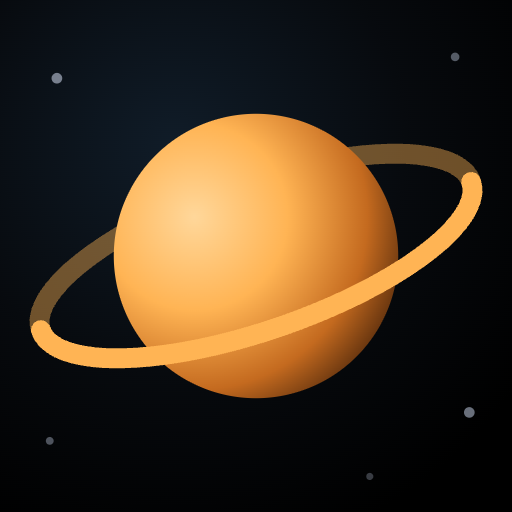
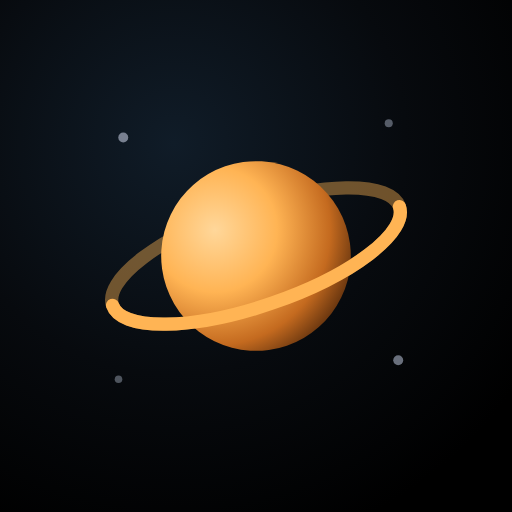
Add the App Store listing pack
APP-STORE.md is the Connect answer sheet, beside PLAY-LISTING.md: name,
subtitle, keywords, description, App Privacy (Data Not Collected), the 4+
questionnaire, export compliance, and the review notes to answer Guideline 4.2
with. DECIDE markers where the call is the owner's — Kids Category, which should
stay in step with Play's target-audience answer.

Screenshots are shot from the real WKWebView on the 6.9" iPhone and 13" iPad
simulators: 1320x2868 and 2064x2752, six each, the same six ideas as the Play
set. None of Play's sizes transfer.

The iPad set is portrait deliberately. Apple takes either orientation, but
landscape cannot be forced from a script the way it can on iPhone: an iPad app
that supports Split View must support all four orientations, so a landscape-only
UISupportedInterfaceOrientations is ignored, and the simulator letterboxes the
interface into the portrait framebuffer rather than rotating it.

Nothing here is blocked on code. It is blocked on the organisation enrolment.

diff --git a/mobile/store/APP-STORE.md b/mobile/store/APP-STORE.md
@@ -1,0 +1,281 @@
+# App Store — everything App Store Connect will ask for
+
+Answer sheet for `au.com.lionforce.planetexplorer`, version 1.0.0 (build 1).
+Copy is final unless marked **DECIDE** or **FILL IN**. Assets in this folder are
+ready to upload. The Play answers live beside this in `PLAY-LISTING.md`; where the
+two stores ask the same question the answer is the same, but almost none of the
+*fields* are the same shape, so this is a separate sheet rather than a diff.
+
+**Blocked on one thing only:** the Apple Developer Program organisation enrolment.
+Everything below can be filled in the moment the account opens.
+
+---
+
+## Assets in this folder
+
+| File | Connect field | Spec | Status |
+|---|---|---|---|
+| `screenshots-iphone/*.png` | iPhone 6.9" screenshots | 1320×2868, 6 of them | ✅ |
+| `screenshots-ipad/*.png` | iPad 13" screenshots | 2064×2752, 6 of them | ✅ |
+| — | App icon | **not uploaded separately** — Connect takes the 1024px icon out of the build's asset catalogue | ✅ in build |
+
+Apple's sizes do not overlap Play's at all, so these are shot separately, from the
+real WKWebView on the iPhone 17 Pro Max and iPad Pro 13-inch simulators. The six
+compositions are the same six ideas as the Play set: named landmarks on Earth,
+Valles Marineris in relief, Jupiter's bands, Saturn under the science layers, Io,
+and the sense-of-scale panel.
+
+**The iPad set is portrait on purpose.** Apple accepts either orientation, and
+landscape cannot be forced from the command line: an iPad app that supports Split
+View is required to support all four orientations, so a landscape-only
+`UISupportedInterfaceOrientations` is ignored, and the simulator letterboxes the
+interface into the portrait framebuffer instead of rotating it. Re-shoot in
+landscape on a real iPad if you prefer it — `xcrun simctl io <udid> screenshot`
+is the same one-liner on a device.
+
+One screenshot set covers every localisation; there is only English.
+
+---
+
+## App information
+
+| Field | Value |
+|---|---|
+| Name (30 max) | `Planet Explorer` |
+| Subtitle (30 max) | `Fly 24 real worlds, offline` (27) |
+| Bundle ID | `au.com.lionforce.planetexplorer` |
+| SKU | `PLANETEXPLORER1` |
+| Primary category | Education |
+| Secondary category | Games → Simulation |
+| Age rating | **4+** (see below) |
+| Price | **Free**, no in-app purchases |
+| Copyright | `2026 Lion Force Pty Ltd` |
+| Support URL | `https://www.lionforce.com.au` |
+| Marketing URL | `https://www.lionforce.com.au` |
+| Privacy Policy URL | `https://www.lionforce.com.au/privacy/planet-explorer` |
+
+Primary category is Education rather than Games deliberately: it is the same
+argument the review notes make, and it is where a parent looking for this would
+search. Play has it under Games → Educational because Play's Education category
+excludes games outright.
+
+**Keywords** (100 max, comma-separated, no spaces after commas — 99 used)
+
+```
+solar system,planets,space,astronomy,science,stars,mars,saturn,jupiter,moons,orbit,kids,learning
+```
+
+Do not repeat the app name or the category in keywords; Apple already indexes
+both.
+
+**Promotional text** (170 max, editable without a new build)
+
+```
+Twenty-four worlds, generated on your device as you arrive. No ads, no accounts,
+no network — it works on a plane. Twelve survey missions written for a young
+reader.
+```
+
+**Description** (4000 max)
+
+```
+Take a survey craft anywhere in the solar system. Twenty-four worlds — the Sun,
+all eight planets, five dwarf planets and ten famous moons — and not one of them
+is a photograph. Every surface is generated on your device as you arrive:
+Jupiter's counter-flowing cloud bands with the Great Red Spot drifting between
+them, Saturn's stripes under real ring gaps, Io's volcanoes, Europa's cracked
+ice, Haumea tumbling end over end.
+
+TWELVE SURVEY MISSIONS
+Each mission is a clue rather than a waypoint. "Find the moon that orbits its
+planet backwards." Work out which world it means, fly there, descend close and
+hold position to survey it. Every debrief is a real fact, and your badges are
+saved.
+
+REAL RELIEF, REAL PLACES
+Solid worlds carry a height map, so craters have raised rims and Valles Marineris
+is genuinely a gash four thousand kilometres long — visible on the planet's
+silhouette and sharpest along the terminator. Turn on landmarks and the real
+places name themselves at their real coordinates: Olympus Mons, Tycho, the Sea of
+Tranquility where Apollo 11 landed, Caloris, Sputnik Planitia, the Cassini
+Division. Worlds we have only ever seen as cloud, like Venus, honestly have
+nothing to show.
+
+THE VIEW FROM A MOON
+Select a moon and its planet hangs in its sky — Saturn looming over Enceladus,
+Jupiter's bands churning above Io, Earth floating over the Moon with its clouds
+still moving. The sky moves too: the planet circles at the moon's real orbital
+direction and waxes through phases. Every moon is tidally locked, so the host
+stays over the same face, and Pluto and Charon each keep one face toward the
+other, as they really do.
+
+TIME WARP
+One second of flight is six minutes of local day on every world. Speed that up
+to sixty times and the physics becomes something you can watch: the terminator
+sweeping across the ground, Haumea turning end over end every four hours while
+Venus barely creeps.
+
+SCIENCE LAYERS
+One tap draws the schematic — spin axis with the poles marked and the real axial
+tilt, the equator, the direction of rotation, the sub-solar point and the
+terminator. Uranus lying on its side at 98°, Venus upside down at 177° so its
+spin runs backwards, Triton turning against its own orbit: things to see rather
+than take on trust.
+
+A SENSE OF SCALE
+The target and Earth drawn at one scale, which is the point — next to the Sun,
+Earth is a dot you have to hunt for. Then the whole solar system shrinks until
+the Sun is a 30 cm beach ball, Earth a peppercorn 32 metres away, Neptune a
+marble most of a kilometre off. Distances are measured in things that take time:
+how long sunlight takes to arrive, how long a radio call would take, how many
+years an airliner would need.
+
+YOU, HERE
+Enter your weight and age and every world tells you what you would weigh there
+and how high you could jump — 35 metres on Enceladus — from real surface gravity.
+
+BUILT TO BE HARMLESS
+No advertising. No in-app purchases. No accounts. No analytics. No network
+requests of any kind, so it works in a tunnel or on a plane. Nothing is
+collected, and nothing can be: the app has no networking code in it at all.
+
+Every number, every clue and every debrief is real science, written to be read by
+someone young.
+```
+
+**What's New in This Version** (for 1.0.0)
+
+```
+First release. Twenty-four worlds, twelve survey missions, real relief and named
+landmarks — all generated on your device. No ads, no purchases, no network.
+```
+
+---
+
+## App Privacy
+
+Answer **Data Not Collected** and the section is finished — no data types, no
+tracking, no third-party SDKs. This is by construction: the app makes no network
+request, and on Android the same binary ships without even the INTERNET
+permission, which is the same claim in a form a reviewer can verify.
+
+| Question | Answer |
+|---|---|
+| Do you or your third-party partners collect data from this app? | **No** |
+| Does the app use the Advertising Identifier (IDFA)? | **No** |
+| Does the app track users across apps or websites? | **No** — no `NSUserTrackingUsageDescription`, no ATT prompt |
+
+There is no privacy manifest (`PrivacyInfo.xcprivacy`) in the build and none is
+required: the app uses no [required-reason API](https://developer.apple.com/documentation/bundleresources/privacy_manifest_files)
+and contains no third-party SDK.
+
+**On-device storage, if the reviewer asks:** three values in the WebView's local
+storage, mirrored into `UserDefaults` so a storage-pressure eviction does not wipe
+a child's progress — which worlds have been surveyed, an optional weight and age
+typed into the pilot row, and whether one panel is folded. Never transmitted;
+nothing to transmit them with.
+
+---
+
+## Age rating questionnaire
+
+Every content question is **None / No**. Expected result: **4+**.
+
+| Question | Answer |
+|---|---|
+| Cartoon or fantasy violence · realistic violence · sexual content · nudity | None |
+| Profanity or crude humour · alcohol, tobacco, drugs · horror themes | None |
+| Simulated gambling · contests | None |
+| Unrestricted web access | **No** — there is no browser, no link out, no remote content |
+| Medical or treatment information | No |
+| Made for Kids | **DECIDE**, see below |
+
+### Kids Category — **DECIDE**
+
+The app qualifies cleanly: no ads, no purchases, no accounts, no analytics, no
+external links, no user-generated content, no network at all. Two ways to go:
+
+- **Enter the Kids Category** (ages 5–8 or 9–11). It is a marketing asset and the
+  right shelf for the audience the copy is written for. Costs: Guideline 1.3 and
+  the Kids rules apply in review, a parental gate is required for anything that
+  leaves the app (there is nothing, so this is free), and the privacy policy URL
+  becomes mandatory rather than merely required.
+- **Ship 4+ without the Kids Category.** Fastest through review; can be added in
+  a later version. Recommended if you want the first submission to be about
+  finding real-device problems rather than passing an extra review track.
+
+Nothing in the build changes either way. Keep this decision in step with Play's
+target-audience answer.
+
+---
+
+## Review notes
+
+Paste into App Review Notes. **Budget one rejection round on Guideline 4.2**
+(minimum functionality / repackaged website) and reply with this same argument —
+it is strong, but a web-view wrapper is exactly the shape reviewers look at
+twice.
+
+```
+No account, no login, no configuration — launch the app and it plays.
+
+This is a native app built on WKWebView, not a website in a wrapper. There is no
+remote content and no networking code of any kind: no URL requests, no analytics,
+no ads, no downloaded code. Everything ships in the bundle, and every planet
+surface is generated procedurally on the device at runtime (a few seconds of
+"Scanning surface" on first arrival at a world is that generation, not a
+download). The same build for Android ships with no INTERNET permission at all,
+which we mention because it is a verifiable form of the same statement: put the
+device in airplane mode and the app is fully functional.
+
+The app is a solar-system flight simulator with twelve survey missions, real
+surface relief, named landmarks at real coordinates, axial-tilt and terminator
+overlays, and a sense-of-scale calculator. Every figure in it is real science.
+
+Nothing is collected. Three values are kept in on-device storage: which worlds
+have been surveyed, an optional weight and age typed into the pilot row, and
+whether one panel is folded.
+```
+
+---
+
+## Export compliance
+
+`ITSAppUsesNonExemptEncryption` is set to `false` in `Info.plist`, so Connect
+stops asking on every upload. It is the truthful answer twice over: the app
+contains no encryption of its own, and makes no connection to encrypt.
+
+---
+
+## Content rights and other declarations
+
+| Question | Answer |
+|---|---|
+| Does your app contain, show, or access third-party content? | **No** — every pixel is generated by the app or drawn by us; there are no photographs, no fonts beyond the system's, no music |
+| Third-party libraries | three.js r128 (MIT), vendored; Capacitor (MIT) |
+| Sign in with Apple required? | No — the app has no accounts at all |
+| Account deletion required? | No — no accounts |
+| Government / regulated content | None |
+
+---
+
+## Upload
+
+```
+cd mobile
+npm run archive          # → ios/App/build/App.xcarchive
+```
+
+Then either **Xcode → Organizer → Distribute App → App Store Connect**, or
+`xcrun altool`/`notarytool` with an app-specific password. The archive needs a
+real distribution certificate, which arrives with the paid account; everything up
+to that point — including running on your own device on a personal team's 7-day
+provisioning — works today.
+
+Bump `MARKETING_VERSION` / `CURRENT_PROJECT_VERSION` in
+`ios/App/App.xcodeproj/project.pbxproj` for every upload; Connect rejects a
+repeated build number even for a rejected build.
+
+**Order of operations:** the privacy policy URL must resolve *before* you submit —
+it lives on the company site, on its own branch of `lion-force-web`, and Apple
+fetches it during review.

diff --git a/mobile/store/PLAY-LISTING.md b/mobile/store/PLAY-LISTING.md
@@ -15,6 +15,10 @@ ready to upload.
 | `screenshots-phone/*.png` | Phone screenshots | 1080×1920, 6 of them | ✅ |
 | `screenshots-tablet/*.png` | 10" tablet screenshots | 1600×2560, 3 of them | ✅ |
 
+The App Store's own answer sheet is `APP-STORE.md` beside this one; its screenshot
+sets (`screenshots-iphone/`, `screenshots-ipad/`) are Apple's sizes and are not
+interchangeable with these.
+
 Phone shots were captured from the real Android WebView with the emulator
 reconfigured to phone geometry (1080×2340 at 420dpi → 411×891 CSS px, which is
 the phone breakpoint), then scaled and padded with black to an exact 9:16. The
@@ -199,7 +203,7 @@ Expected outcome: **ESRB Everyone · PEGI 3 · USK 0 · ACB G · IARC 3+**.
 | Data safety | see above |
 | Government-issued IDs, biometrics | None |
 | Play App Signing | **Enrol** (default). The `.jks` in `android/` is the *upload* key. |
-| App bundle | `android/app/build/outputs/bundle/release/app-release.aab` (3.0 MB) |
+| App bundle | `android/app/build/outputs/bundle/release/app-release.aab` (2.9 MB) |
 | Countries | **DECIDE** — all countries is the simple answer for a free offline game |
 | Store presence → pricing | **Free** (locked; a free app cannot later become paid) |
 
